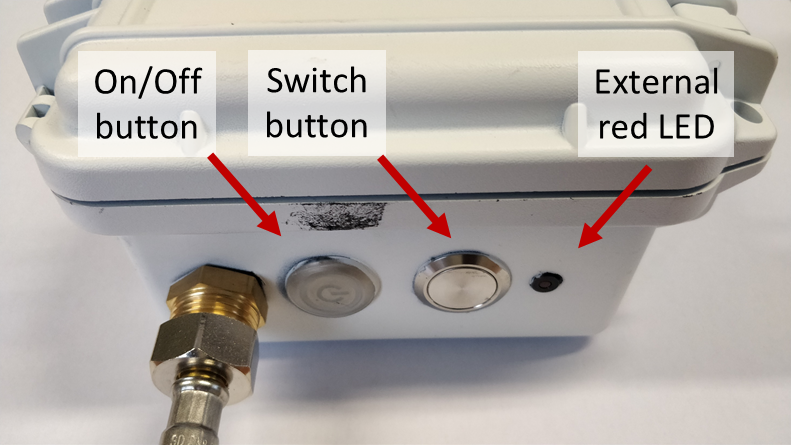
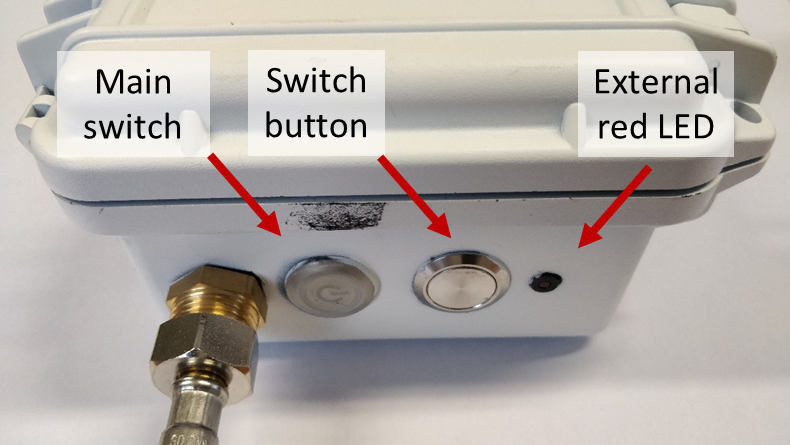
Add  project context and device description for user usage

diff --git a/docs/Device_description.md b/docs/Device_description.md
@@ -1,0 +1,98 @@
+# Device description
+
+## System constitution
+
+The system consists of a terrier antenna and a case.
+The antenna incorporates two infrared transmitters / receivers as well as an RFID antenna.
+
+<!-- markdownlint-disable MD033 -->
+<a href="../assets/images/User_description/Antenna_details.png">
+<img src="../assets/images/User_description/Antenna_details.png" alt= "Antenna details" height="300">
+</a>
+<!-- markdownlint-enable MD033 -->
+
+The case contains all the embedded electronics, the battery, the clock, the micro-SD memory card and the start-up buttons.
+On the outside of the case you'll find:
+
+* A main switch button : Used to connect / disconnect the system with the battery
+* A switch button : Used to power-on / power-off the system
+* A red LED : Used by the system to interact with the user
+
+<!-- markdownlint-disable MD033 -->
+<a href="../assets/images/Procedure/External_component.png">
+<img src="../assets/images/Procedure/External_component.png" alt= "External component" height="300">
+</a>
+<!-- markdownlint-enable MD033 -->
+
+Inside the case is:
+
+* A battery (4.2V Li-ion or 12V Lead version)
+* A slot for the micro-SD memory card
+* A CR1220 3V battery for the Real-Time Clock
+
+<!-- markdownlint-disable MD033 -->
+<a href="../assets/images/User_description/Internal_component.png">
+<img src="../assets/images/User_description/Internal_component.png" alt= "Internal component" height="300">
+</a>
+<!-- markdownlint-enable MD033 -->
+
+---
+
+## Functioning of the system
+
+The system checks at regular intervals (delay_loop parameter) if the infrared barriers have been broken or restaured. If an infrared event has occurred, the RFID sensor is read a number of times (rfid_attempts parameter). The data (IR event and tag) are then stored on the SD card
+
+If capture mode 2 (all individuals) has been set, the door is closed immediately after the infrared event.
+If you have set the capture mode 3 (specific tags), the door is closed if the RFID tag read corresponds to one of the 5 described in the configuration file.
+If you have set the capture mode 4 (untagged), the door is closed if the system has not detected a tag during the different reading attempts.
+
+In case the infrared sensors are disabled, (opt_IR_1 & opt_IR_2 parameters set to false), the RFID reading is continuously done (Caution: this mode consumes a lot of battery).
+
+If the temperature is required (opt_temp_prec parameter set to true), the system measures and records it at regular intervals (delay_temp parameter) only if it has varied by more than 0.02°c since the last record.
+
+The system also measures the battery voltage, and records it if it has varied by more than 0.1V since the last recording.
+
+## Security of the system
+
+If the temperature exceeds 50°c or the battery voltage falls below a threshold (BATTERY_MIN_VOLTAGE = 3V for Li-ion battery or 12V for Lead battery), the device is powered-off.
+
+In addition, if the battery voltage passes below BATTERY_MIN_VOLTAGE + 0.1V, the sensor reading is suspended until the voltage is passed above BATTERY_MIN_VOLTAGE + 0.2V.
+
+If the door has been closed for a certain duration (release_time parameter), it is reopened. In addition, the door is opened before each system shutdown in case of overheating or under voltage.
+
+## Error management
+
+In case of errors, the external red LED turns on and the internal red LED blinks. Acording to the blinking frequency, it's possible to know the error :
+
+* 2 times : Memory card not detected
+* 3 times : Failed to write data on the SD card (memory can be corrupted)
+* 4 times : Real-Time Clock battery has to be replaced. The program has to be compiled and uploaded again to reset the error
+
+---
+
+## Q & A
+
+### How to use the device?
+
+The antenna must be positioned at the entrance of the burrow so that individuals can pass through. Once the coil and case are installed, power-on the system and check it's working correctly.
+
+### How to power-on / power-off the device?
+
+Check the battery is connected then press the main switch (with power symbol, pressed = On)
+Press the switch button until the external red LED turns on. Once done, release it. The external red LED should turn OFF after the startup of the device.
+
+To power-off the device, maintain the switch button pressed until the external LED stops blinking and remains on. Once done, press the main switch (released = Off) and disconnect the battery.
+
+### How to check the device is correctly working?
+
+To check the system is working properly during a start-up, refers to the [Checking procedure](Checking_procedure)
+
+### How to check that the system is still working (battery are OK)?
+
+Quickly press and release the switch button (t < 0.5 second). If the system is still powered, the external red LED should briefly blinks.
+
+### How to access to the recorded data?
+
+Once the system off, open the case. Unlock the memory card (one push to lock / unlock the micro-SD card) and get it.
+Insert it into a computer and access its contents. Data are stored in text format in files named with date and time (format YY_MM_DD.TXT).
+Do not rename SD card files

diff --git a/docs/index.md b/docs/index.md
@@ -1,55 +1,32 @@
 # Home
 
-## Nichoir 2021 </summary>
+## System purpose
 
-* [contexte](Stage/contexte)
-* [Stage-2021](Stage/Stage-2021)
-* [Boitier](Stage/Boitier)
-* [Manuel d'assemblage](Stage/Manuel-d'assemblage)
+The purpose of this system is to monitor and capture certain individuals.
+A circular antenna, equipped with sensors and placed at the entrance of a burrow, can detect the passage of individuals and read their RFID tags (if existing).
+All this data is collected on an memory card with timestamp.
 
-Un même projet pour deux applications:
+Depending on the system setting, it is also possible to capture individuals who have crossed the antenna.
+Several capture modes are available:
 
-* un nichoir "intelligent" pour mésanges
-* une antenne terrier pour Hamsters sauvages
+* No capture
+* Capture of all individuals
+* Capture individuals with a specific tag
+* Capture of individuals without tags
 
-Chaque application possède sa propre conception mécanique. Mais la programmation et l'électronique sont partagées.
+The entire system is contained in a case for easy transport and installation.
 
-## Description du fonctionnement en commun
+<!-- markdownlint-disable MD033 -->
+<a href="../assets/images/User_description/Complete_system.jpg">
+<img src="../assets/images/User_description/Complete_system.jpg" alt= "Complete system" height="300">
+</a>
+<!-- markdownlint-enable MD033 -->
 
-Les deux systèmes ont en commun :
+## Technical specifications
 
-* Système embarqué à placer en milieu naturel (forêt, champs)
-* 1 ou 2 détections IR pour détecter la présence d'un animal
-* une antenne RFID pour la lecture d'un transpondeur dans l'animal
-* l'enregistrement des données sur une carte SD
-* Gestion de la batterie pour un fonctionnement avec panneau solaire
-
-## Les outils de développement
-
-### Mécanique
-
-* Antenne terrier sur Siemens NX
-* Nichoir sur Top Solid
-
-## Carte Electronique
-
-* Schéma et routage des cartes sur fritzing.
-* Schémas plus générals sur EasyEDA, Projet "Nichoir_RFID".
-
-## Programmation
-
-### Plateform IO sur VSCode
-
-Pour le développement du programme informatique.
-
-### Utilisation de JLink sur Plateform IO
-
-A venir...
-
-<!--
-TODO: [Installer_JLink_sur_Arduino_Feather_M0_avec_VScode_et_platform_IO.docx](./uploads/a56c5ae2038a9a6447f9fe94b2979012/Installer_JLink_sur_Arduino_Feather_M0_avec_VScode_et_platform_IO.docx
--->
-
-<!--
-TODO: Enlever / mettre à jour les fichiers du nichoir 2021
--->
+* Autonomy: 7 days
+* Power source: 4.2v Li-ion battery or 12V lead battery (a solar panel can be added in Li-ion version)
+* Compatible tag: FDX/ EM4102
+* Case dimensions: 210 x 170 x 100 mm
+* Memory type : Micro-SD card
+* 24h operation or according to an hourly schedule

diff --git a/docs/To_be_moved.md b/docs/To_be_moved.md
@@ -1,0 +1,67 @@
+# Texte à déplacer / Mettre à jour
+
+Ancien emplacement : index.md
+
+# Home
+
+## Nichoir 2021 </summary>
+
+* [contexte](Stage/contexte)
+* [Stage-2021](Stage/Stage-2021)
+* [Boitier](Stage/Boitier)
+* [Manuel d'assemblage](Stage/Manuel-d'assemblage)
+
+Un même projet pour deux applications:
+
+* un nichoir "intelligent" pour mésanges
+* une antenne terrier pour Hamsters sauvages
+
+Chaque application possède sa propre conception mécanique. Mais la programmation et l'électronique sont partagées.
+
+## Description du fonctionnement en commun
+
+Les deux systèmes ont en commun :
+
+* Système embarqué à placer en milieu naturel (forêt, champs)
+* 1 ou 2 détections IR pour détecter la présence d'un animal
+* une antenne RFID pour la lecture d'un transpondeur dans l'animal
+* l'enregistrement des données sur une carte SD
+* Gestion de la batterie pour un fonctionnement avec panneau solaire
+
+## Les outils de développement
+
+### Mécanique
+
+* Antenne terrier sur Siemens NX
+* Nichoir sur Top Solid
+
+## Carte Electronique
+
+* Schéma et routage des cartes sur fritzing.
+* Schémas plus générals sur EasyEDA, Projet "Nichoir_RFID".
+
+## Programmation
+
+### Plateform IO sur VSCode
+
+Pour le développement du programme informatique.
+
+### Utilisation de JLink sur Plateform IO
+
+A venir...
+
+<!--
+TODO: [Installer_JLink_sur_Arduino_Feather_M0_avec_VScode_et_platform_IO.docx](./uploads/a56c5ae2038a9a6447f9fe94b2979012/Installer_JLink_sur_Arduino_Feather_M0_avec_VScode_et_platform_IO.docx
+-->
+
+<!--
+TODO: Enlever / mettre à jour les fichiers du nichoir 2021
+-->
+
+---
+
+Ancien emplacement : Software_configuration.md
+
+## Manipulation du boitier
+
+Le système s'enlève pour récupérer un oiseau comme on enlèverai la porte originelle, en soulevant le boitier et en tirant vers soi. La carte SD est accessible en dévissant le bouchon sur la surface inférieur. Un port USB étanche est également présent sur cette surface pour y placer le power bank ou la panneau solaire.

diff --git a/docs/Software_configuration.md b/docs/Software_configuration.md
@@ -1,4 +1,6 @@
-The microcontroller program has some parameters that can be configured. User can then personnalize his program.
+# Software configuration
+
+The microcontroller program has some parameters that can be configured by a configuration file. User can then personnalize its program.
 The file is located into the SD card ("CONFIG.txt") and respects the [JSON format](http://json.com/).
 
 ---
@@ -31,6 +33,7 @@ The file is located into the SD card ("CONFIG.txt") and respects the [JSON forma
 ## Edit parameters
 
 To change the values of the parameters :
+
 1. Insert the SD card into a computer
 2. Check for CONFIG.txt file and open it
 3. Change the value of the required parameters
@@ -83,10 +86,10 @@ Following an event on the infrared sensor, RFID reading. If the tag is one of th
 
 Following an event on the infrared sensor, RFID reading. If there is no tag, closing the door.
 
-*NOTE* For each capture mode, a security timeout opens the door afteer a capture duration (release_time parameter)
+*NOTE* For each modes, a security timeout opens the door after a certain duration (parameter release_time)
 
 ---
 
-## Manipulation du boitier
+## Parameters incompatibility
 
-Le système s'enlève pour récupérer un oiseau comme on enlèverai la porte originelle, en soulevant le boitier et en tirant vers soi. La carte SD est accessible en dévissant le bouchon sur la surface inférieur. Un port USB étanche est également présent sur cette surface pour y placer le power bank ou la panneau solaire.
+Be careful to specify a mode compatible with the rest of the configuration. The mode 2 and 4 requires at least one infrared sensor activated (opt_IR_1 or opt_IR_2 set to true).
